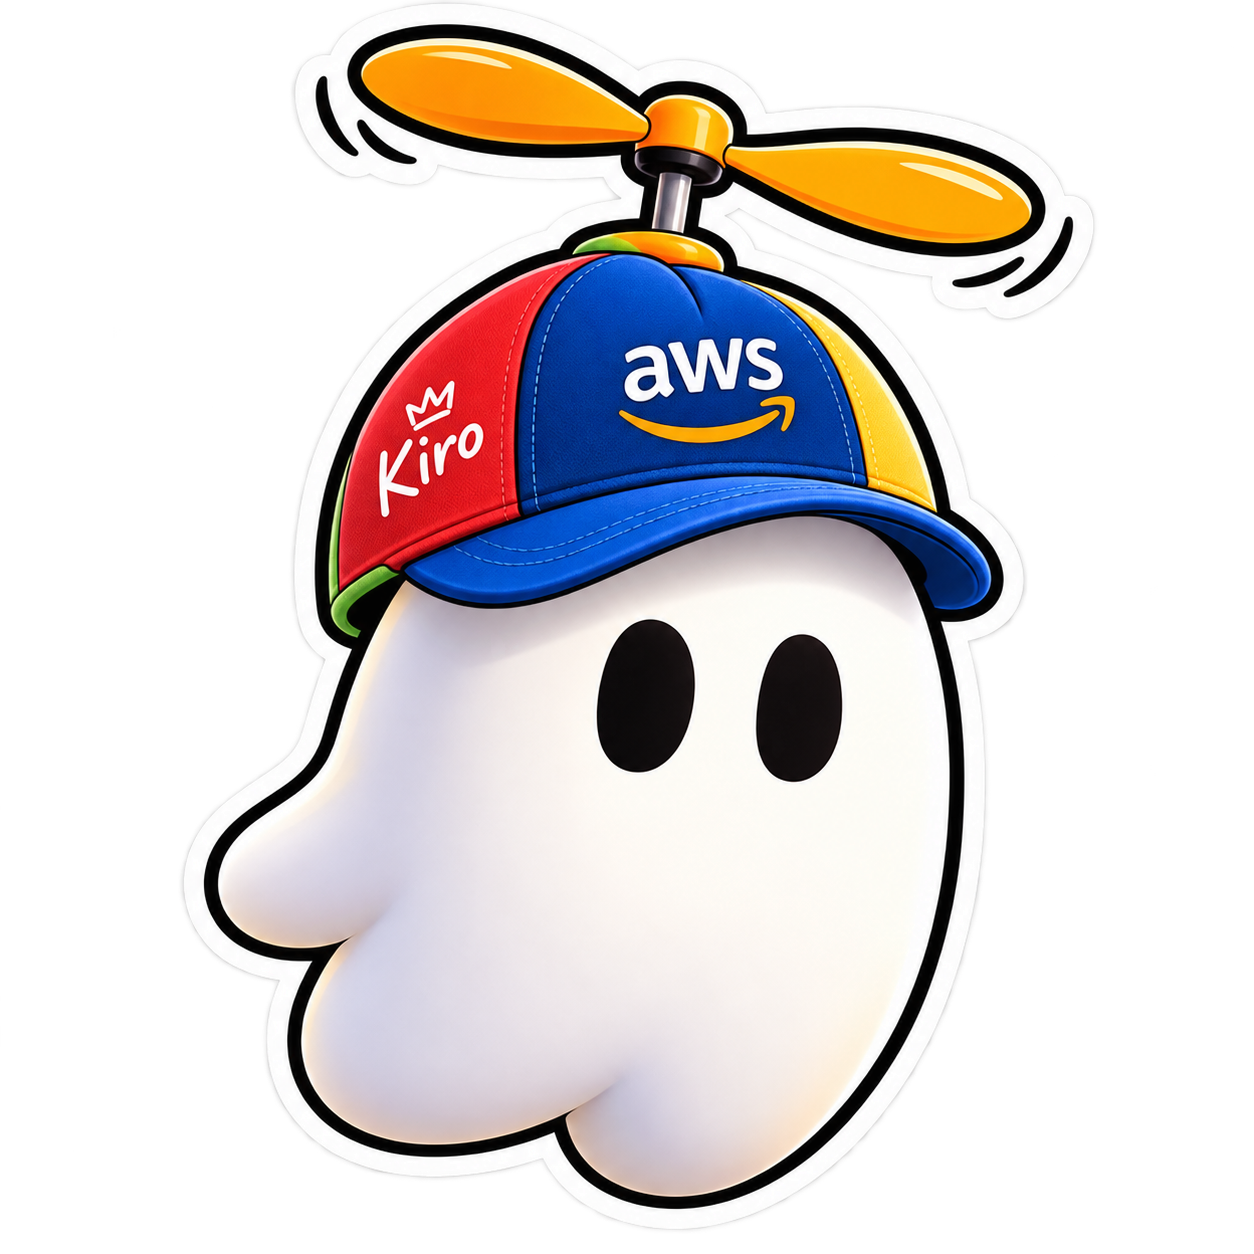
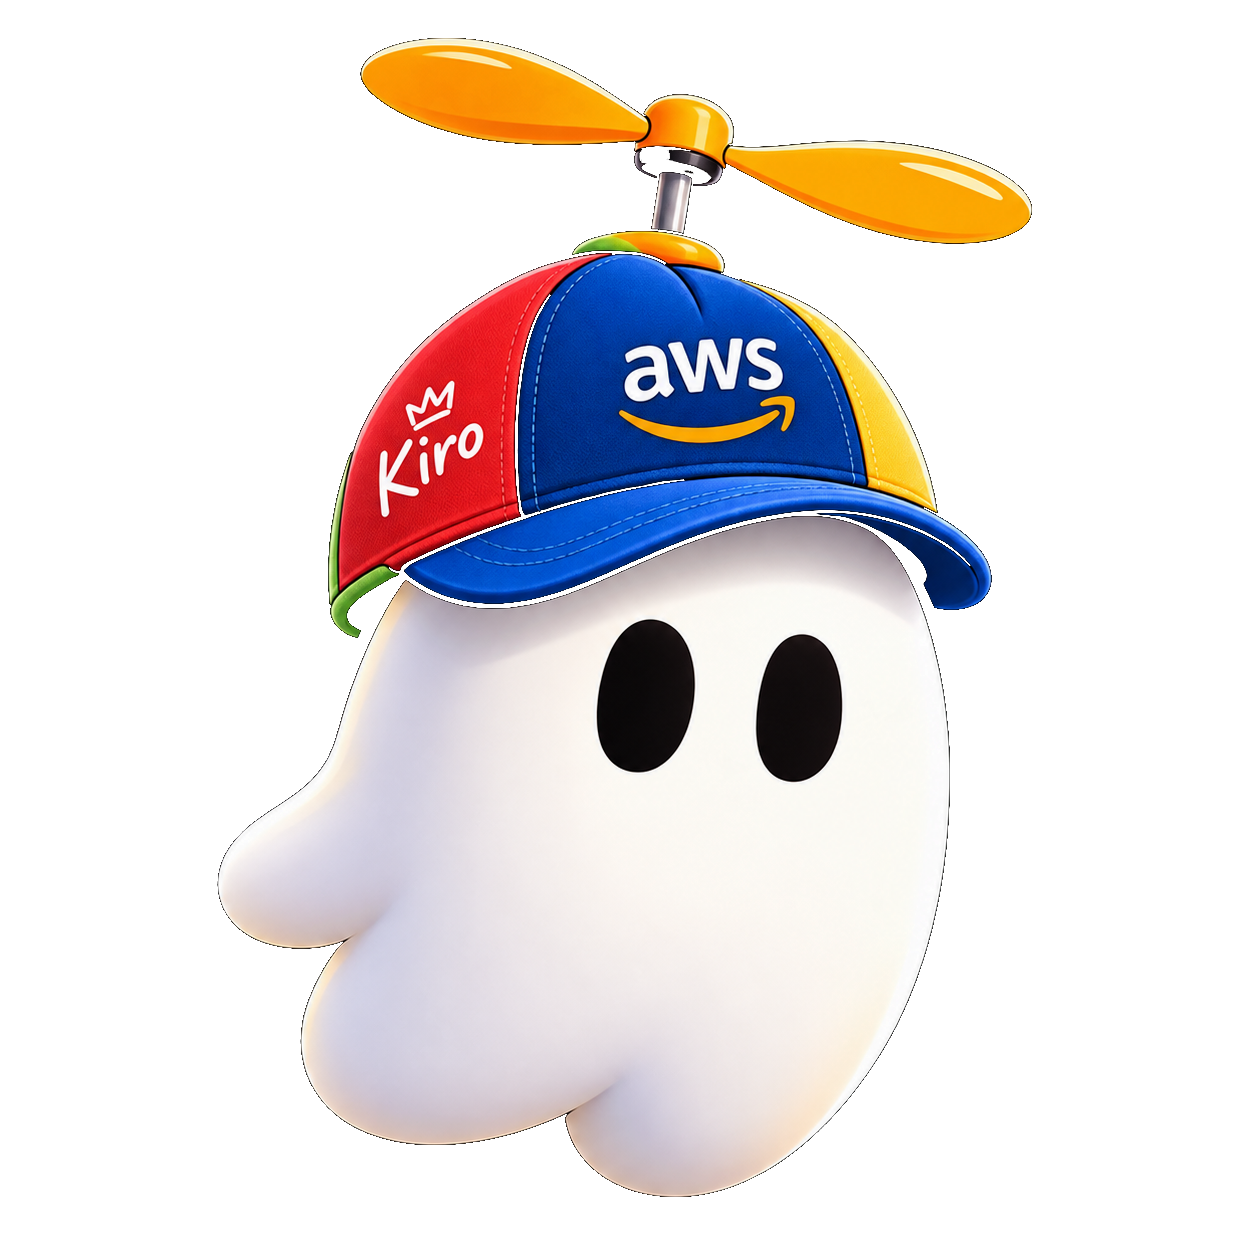
feat(crew): renomeia aba para KiroCopter e atualiza mascote
Label do menu passa de RADAR Crew para KiroCopter (rota /crew mantida). Mascote trocado pela versao com fundo transparente, melhor sobre o header escuro.

diff --git a/radar/src/app/Layout.tsx b/radar/src/app/Layout.tsx
@@ -42,7 +42,7 @@ export const NAV: NavItem[] = [
   { to: '/radar', label: 'Radar de PRs', icon: Radar, personas: ['tl'] },
   { to: '/projetos', label: 'Status de Projetos', icon: FolderKanban, personas: ['vp', 'tl'] },
   { to: '/guardrails', label: 'Guardrails & Skills', icon: ShieldCheck, personas: ['dev', 'tl'] },
-  { to: '/crew', label: 'RADAR Crew', icon: Workflow, personas: ['vp', 'tl', 'dev'] },
+  { to: '/crew', label: 'KiroCópter', icon: Workflow, personas: ['vp', 'tl', 'dev'] },
 ];
 
 function readCollapsed() {
